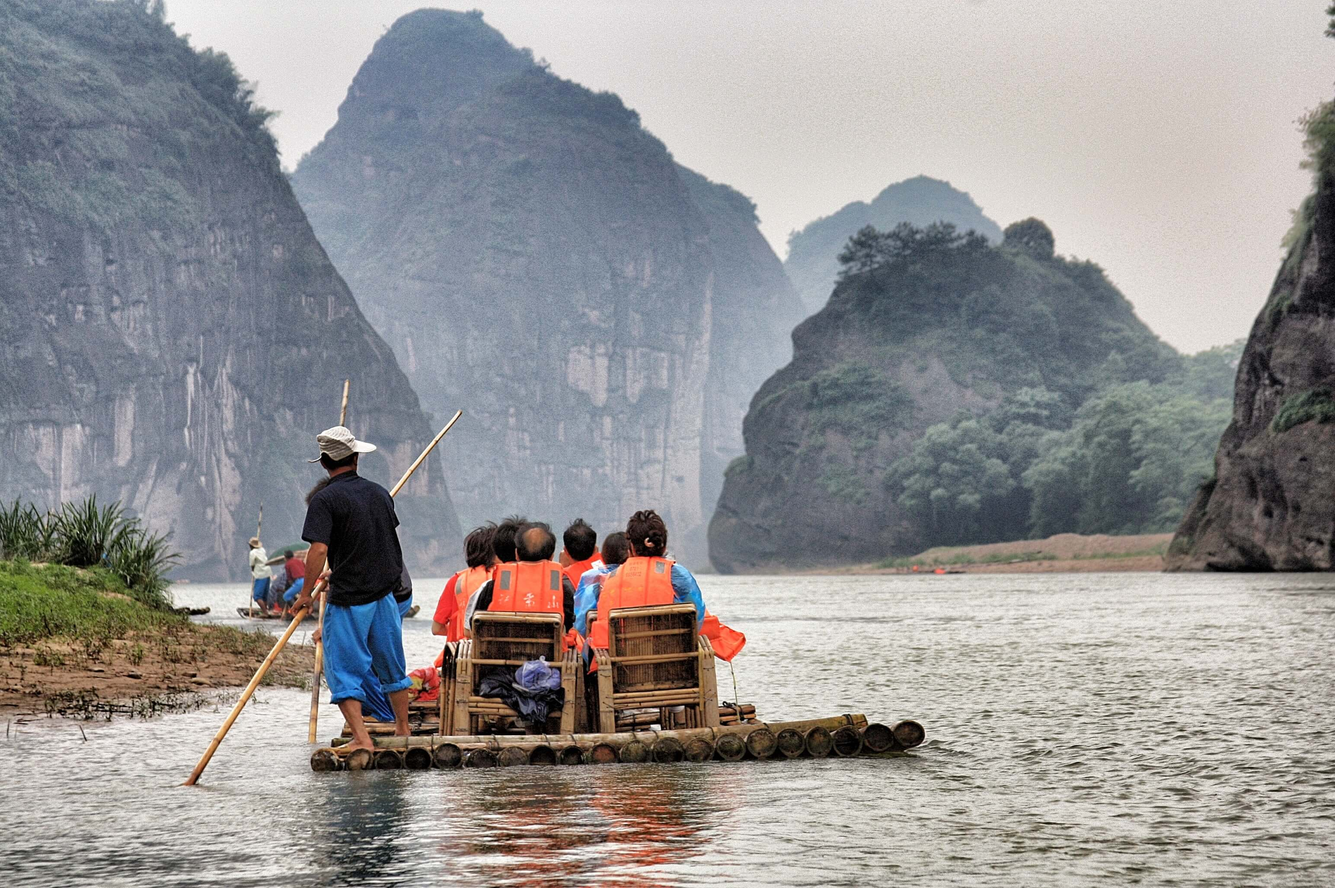
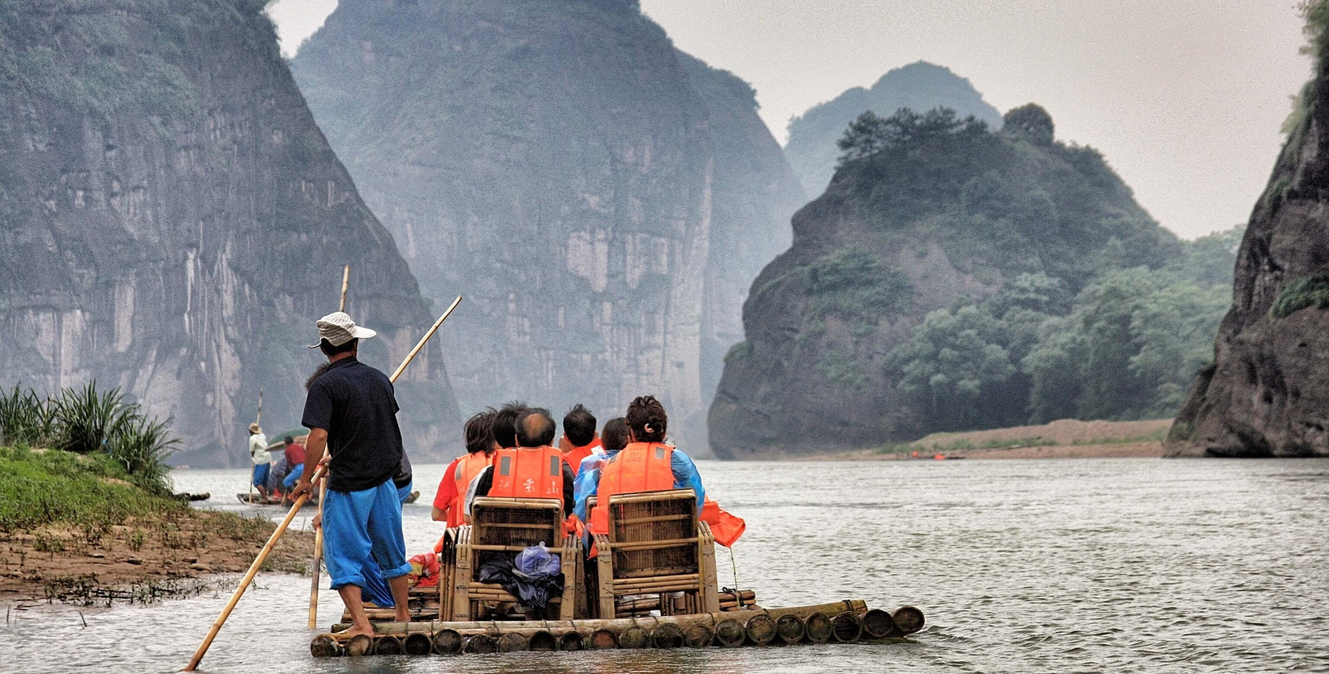
footer added

diff --git a/src/Pages/Home/Banner/Banner.js b/src/Pages/Home/Banner/Banner.js
@@ -17,7 +17,7 @@ const Banner = () => {
             <Carousel.Item>
                 <img
                     className="d-block w-100"
-                    src={travel1}
+                    src={travel1} 
                     alt="First slide"
                 />
                 <Carousel.Caption>
@@ -28,7 +28,7 @@ const Banner = () => {
             <Carousel.Item>
                 <img
                     className="d-block w-100"
-                    src={travel2}
+                    src={travel2} 
                     alt="Second slide"
                 />
 
@@ -40,7 +40,7 @@ const Banner = () => {
             <Carousel.Item>
                 <img
                     className="d-block w-100"
-                    src={travel3}
+                    src={travel3} 
                     alt="Third slide"
                 />
 

diff --git a/src/Pages/Shared/Header/Header.js b/src/Pages/Shared/Header/Header.js
@@ -1,12 +1,16 @@
 import React from 'react';
 import { Container, Nav, Navbar } from 'react-bootstrap';
+import logo from '../../../images/logo2.png'
+
 
 const Header = () => {
     return (
         <>
-            <Navbar bg="dark" variant="dark">
+            <Navbar opacity= '.5' fixed="top" bg="dark" variant="dark">
                 <Container>
-                    <Navbar.Brand href="#home">Navbar</Navbar.Brand>
+                    <Navbar.Brand href="#home">
+                        <img src={logo} height= '40px' alt="" />
+                    </Navbar.Brand>
                     <Nav className="me-auto">
                         <Nav.Link href="#home">Home</Nav.Link>
                         <Nav.Link href="#features">Features</Nav.Link>

diff --git a/src/Pages/Home/Package/Package.js b/src/Pages/Home/Package/Package.js
@@ -11,7 +11,7 @@ const Package = ({ pack }) => {
                     <h5 class="card-title">Destination & Duration: </h5> <p>{duration}</p>
                     <h5 class="card-title">Price: $ {price}</h5>
                     <p class="card-text description"><span className='fw-bold'>Description:</span> {description}</p>
-                    <a href="#" class="btn btn-primary">Go somewhere</a>
+                    <a href="#" class="btn btn-primary">Book Now</a>
                 </div>
             </div>
         </div>

diff --git a/src/App.js b/src/App.js
@@ -4,6 +4,7 @@ import Header from './Pages/Shared/Header/Header'
 import Home from '../src/Pages/Home/Home/Home'
 import About from './Pages/About/About';
 import Blogs from './Pages/Blogs/Blogs';
+import Footer from './Pages/Shared/Footer/Footer'
 
 function App() {
   return (
@@ -14,6 +15,7 @@ function App() {
         <Route path='/about' element={<About/>}>About</Route>
         <Route path='/blogs' element={<Blogs/>}>Blogs</Route>
       </Routes>
+      <Footer></Footer>
     </div>
   );
 }

diff --git a/src/Pages/Home/Packages/Packages.js b/src/Pages/Home/Packages/Packages.js
@@ -12,7 +12,7 @@ const Packages = () => {
     }, [])
     return (
         <div className='container mt-5'>
-            <h3 className='text-primary text-center'>packages: {packages.length}</h3>
+            <h3 className='text-primary text-center mb-3'>Packages</h3>
             <div className='row'>
             {
             packages.map (pack => <Package
